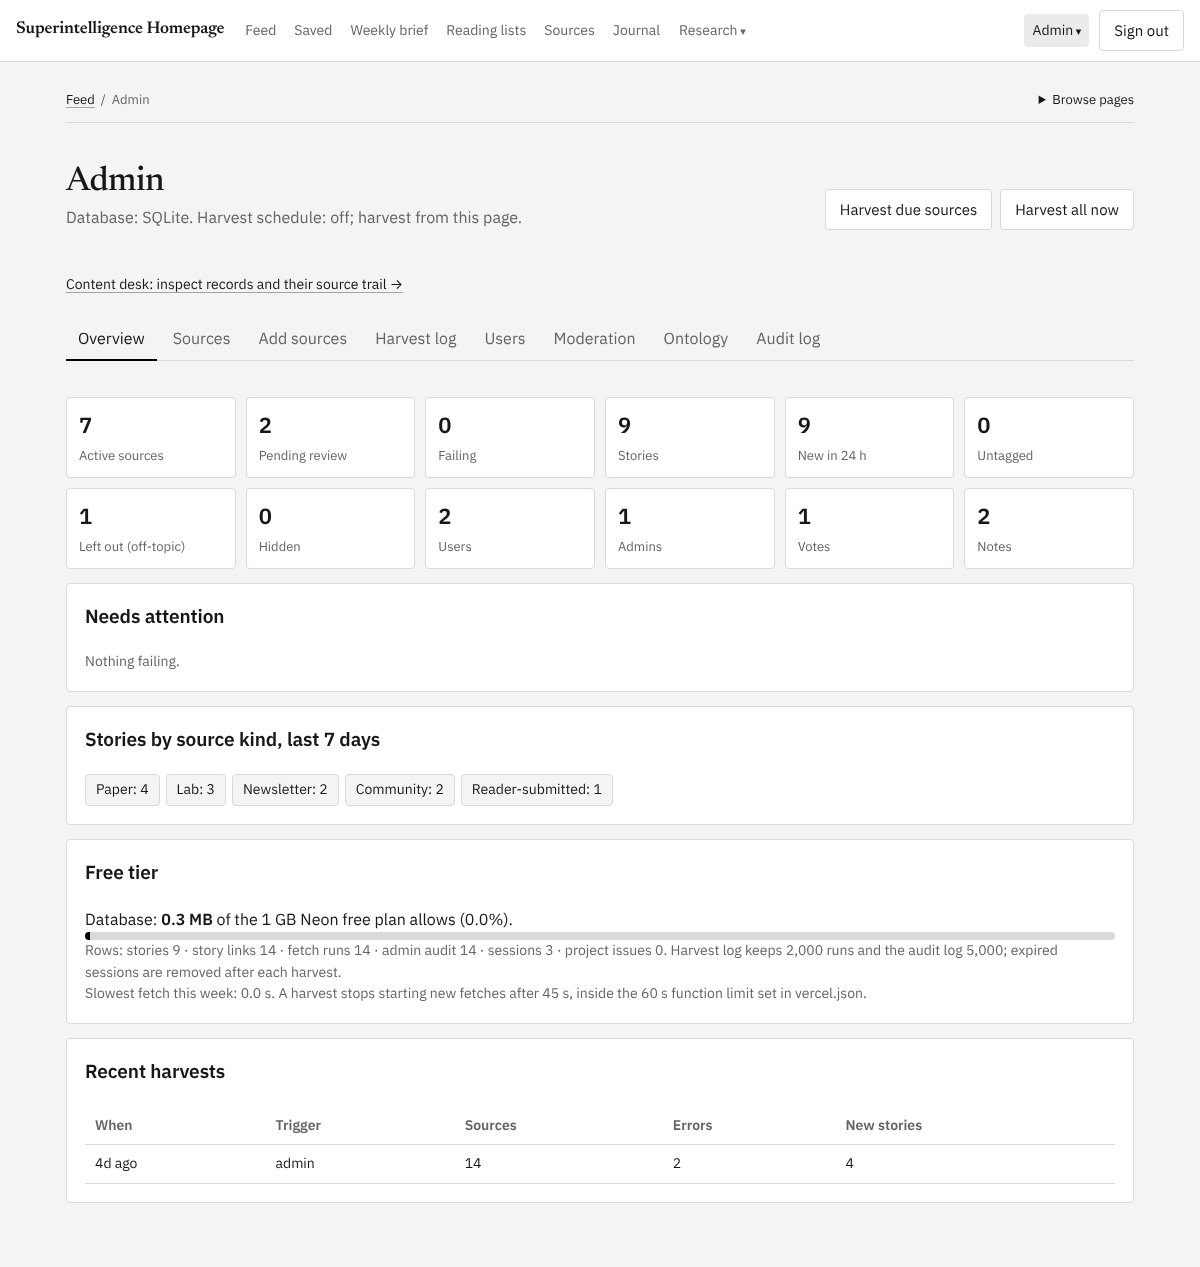
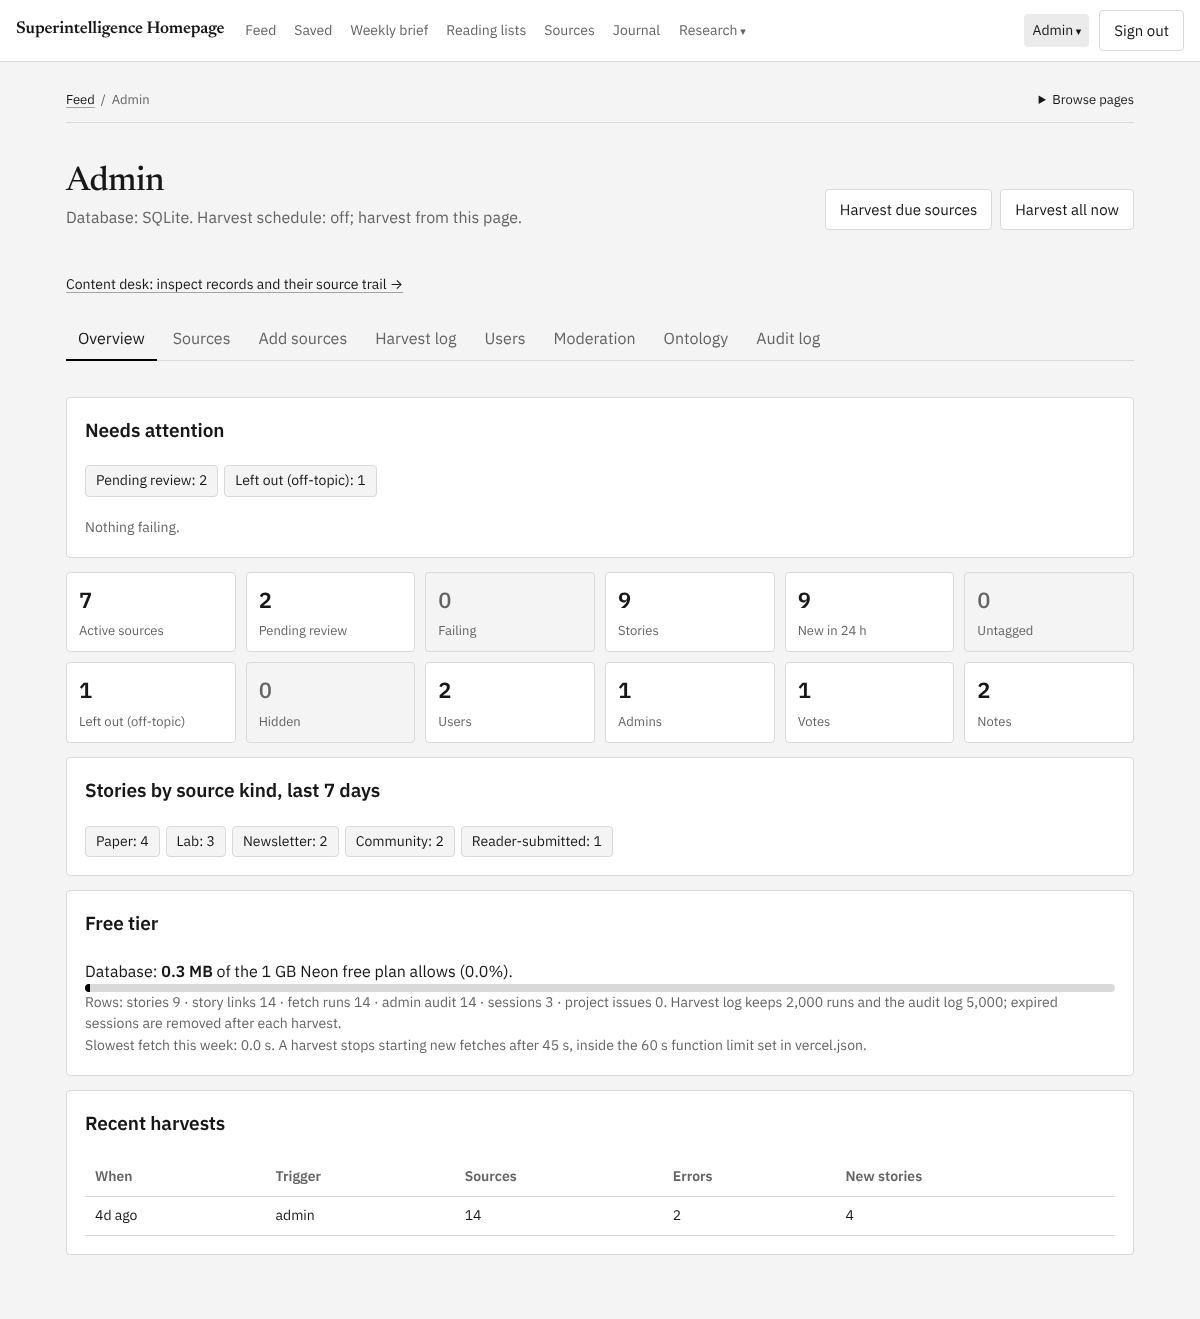
REQ-030: second UI pass from the captures: glossary, score badge, phone metrics, admin overview, Learn on phones
Glossary entries collapse (14,612px to 4,733px; deep links open their entry).
Score badge centred with a 44px hit zone on phones. Metric-only grids stay
two-up on phones. Admin leads with Needs attention and recedes zero counters.
Learn shows the concept list first on phones and folds the map (19 small
targets to 7, axe nested-interactive gone). e2e 339, navigation 15, CMS 32,
glossary 30, preflight: all pass.

diff --git a/modules/learn/pages/glossary.html b/modules/learn/pages/glossary.html
@@ -6,8 +6,8 @@
 <section class="panel" id="functionExplorer"><h2>Try a function</h2><p class="small muted">A bounded numerical teaching example. This checks outputs for these inputs; it is not a formal proof or a measure of a model’s confidence.</p><form class="row" id="functionForm"><label>Function<select id="functionId"><option value="softmax">Softmax</option><option value="sigmoid">Sigmoid</option></select></label><label>Inputs<input id="functionInputs" value="1, 2, 3" aria-describedby="functionLimit"></label><button class="btn" type="submit">Calculate</button></form><p class="small muted" id="functionLimit">1–32 comma-separated finite numbers, each between −1000 and 1000.</p><div id="functionOutput" role="status"></div></section>
 </main><script src="/js/api.js"></script><script src="/js/term-model.js"></script><script>
 let entries=[];
-function draw(){const q=SITerms.searchKey($('#termQuery').value.trim()),kind=$('#termKind').value,shown=entries.filter(e=>(!kind||e.kind===kind)&&(!q||SITerms.searchKey([e.label,e.id,...e.aliases,e.plain].join(' ')).includes(q)));$('#termStatus').textContent=shown.length+' entries shown.';$('#termIndex').innerHTML=shown.map(e=>`<a href="#${e.id}">${esc(e.label)}</a>`).join('');const nav=window.SI_USER?.nav||[],has=path=>nav.some(n=>n.href===path);$('#termEntries').innerHTML=shown.map(e=>`<article class="panel term-entry" id="${e.id}" tabindex="-1"><h2>${esc(e.label)}</h2><p class="small muted">term:${e.id} · ${esc(e.kind)}</p><p>${esc(e.plain)}</p><p class="term-formula">${esc(e.formula)}</p>${e.notation?.length?`<p class="small">Notation pointers: ${e.notation.map(id=>`<a href="#${id}">${esc(entries.find(x=>x.id===id).label)}</a>`).join(' · ')}</p>`:''}<h3>Properties and assumptions</h3><ul>${e.properties.map(p=>`<li>${esc(p)}</li>`).join('')}</ul><p class="small muted">${esc(e.caveat)}</p><div class="trace-links">${e.related.map(id=>{const related=entries.find(x=>x.id===id);return `<a href="#${id}">${esc(related.label)}</a>`;}).join('')}${has('/m/learn')?`<a href="/m/learn#/c/${e.concept}">Related concept</a>`:''}${has('/m/knowledge')?`<a href="/m/knowledge?qid=${encodeURIComponent('term:'+e.id)}">Graph mentions</a>`:''}${e.function_id?`<a href="#functionExplorer" data-function="${e.function_id}">Try ${esc(e.label)}</a>`:''}<a href="#${e.id}" aria-label="Permanent pointer to ${esc(e.label)}">Link to this entry</a></div><h3>Sources</h3><ul>${e.sources.map(s=>`<li><a href="${esc(s.url)}" target="_blank" rel="noopener noreferrer">${esc(s.title)}</a></li>`).join('')}</ul></article>`).join('')||'<p>No entry matches. Try a different name or symbol.</p>';}
-function point(){let id;try{id=decodeURIComponent(location.hash.slice(1));}catch{$('#termStatus').textContent='This glossary pointer is malformed.';return;}if(!id||id==='functionExplorer')return;const entry=entries.find(e=>e.id===id);if(!entry){$('#termStatus').textContent='This glossary pointer is not recognized. All entries are available below.';return;}if(!document.getElementById(id)){$('#termQuery').value='';$('#termKind').value='';draw();}setPageContext(entry.label);document.getElementById(id)?.scrollIntoView({block:'start'});document.getElementById(id)?.focus({preventScroll:true});}
+function draw(){const q=SITerms.searchKey($('#termQuery').value.trim()),kind=$('#termKind').value,shown=entries.filter(e=>(!kind||e.kind===kind)&&(!q||SITerms.searchKey([e.label,e.id,...e.aliases,e.plain].join(' ')).includes(q)));$('#termStatus').textContent=shown.length+' entries shown.';$('#termIndex').innerHTML=shown.map(e=>`<a href="#${e.id}">${esc(e.label)}</a>`).join('');const nav=window.SI_USER?.nav||[],has=path=>nav.some(n=>n.href===path);const target=(()=>{try{return decodeURIComponent(location.hash.slice(1));}catch{return '';}})(),few=shown.length<=3;$('#termEntries').innerHTML=shown.map(e=>`<details class="panel term-entry" id="${e.id}" tabindex="-1"${few||e.id===target?' open':''}><summary><h2>${esc(e.label)}</h2><span class="small muted term-kind">${esc(e.kind)}</span><p>${esc(e.plain)}</p></summary><p class="term-formula">${esc(e.formula)}</p>${e.notation?.length?`<p class="small">Notation pointers: ${e.notation.map(id=>`<a href="#${id}">${esc(entries.find(x=>x.id===id).label)}</a>`).join(' · ')}</p>`:''}<h3>Properties and assumptions</h3><ul>${e.properties.map(p=>`<li>${esc(p)}</li>`).join('')}</ul><p class="small muted">${esc(e.caveat)}</p><div class="trace-links">${e.related.map(id=>{const related=entries.find(x=>x.id===id);return `<a href="#${id}">${esc(related.label)}</a>`;}).join('')}${has('/m/learn')?`<a href="/m/learn#/c/${e.concept}">Related concept</a>`:''}${has('/m/knowledge')?`<a href="/m/knowledge?qid=${encodeURIComponent('term:'+e.id)}">Graph mentions</a>`:''}${e.function_id?`<a href="#functionExplorer" data-function="${e.function_id}">Try ${esc(e.label)}</a>`:''}<a href="#${e.id}" aria-label="Permanent pointer to ${esc(e.label)}">Link to this entry</a></div><h3>Sources</h3><ul>${e.sources.map(s=>`<li><a href="${esc(s.url)}" target="_blank" rel="noopener noreferrer">${esc(s.title)}</a></li>`).join('')}</ul></details>`).join('')||'<p>No entry matches. Try a different name or symbol.</p>';}
+function point(){let id;try{id=decodeURIComponent(location.hash.slice(1));}catch{$('#termStatus').textContent='This glossary pointer is malformed.';return;}if(!id||id==='functionExplorer')return;const entry=entries.find(e=>e.id===id);if(!entry){$('#termStatus').textContent='This glossary pointer is not recognized. All entries are available below.';return;}if(!document.getElementById(id)){$('#termQuery').value='';$('#termKind').value='';draw();}setPageContext(entry.label);const el=document.getElementById(id);if(el&&el.tagName==='DETAILS')el.open=true;el?.scrollIntoView({block:'start'});document.getElementById(id)?.focus({preventScroll:true});}
 $('#termFilters').onsubmit=e=>{e.preventDefault();draw();};$('#termQuery').oninput=draw;$('#termKind').onchange=draw;$('#clearTerms').onclick=()=>{$('#termQuery').value='';$('#termKind').value='';draw();};document.addEventListener('click',e=>{const a=e.target.closest('[data-function]');if(a)$('#functionId').value=a.dataset.function;const pointer=e.target.closest('a[href^="#"]');if(pointer&&pointer.getAttribute('href')===location.hash){e.preventDefault();point();}});window.addEventListener('hashchange',point);
 $('#functionForm').onsubmit=e=>{e.preventDefault();try{const raw=$('#functionInputs').value.split(',');if(raw.some(x=>!x.trim()))throw new Error('Separate numbers with commas; empty values are not numbers.');const output=SITerms.calculate($('#functionId').value,raw.map(Number)),sum=output.reduce((a,b)=>a+b,0);$('#functionOutput').className='';$('#functionOutput').textContent=`Output: ${output.map(v=>Number(v.toPrecision(8))).join(', ')}. ${$('#functionId').value==='softmax'?'Sum: '+sum.toPrecision(8)+'. ':''}All outputs finite and within [0, 1]: ${output.every(v=>Number.isFinite(v)&&v>=0&&v<=1)}.`;}catch(err){showErr($('#functionOutput'),err);}};
 api('/api/me',{allow401:true}).then(async({user})=>{topbar(user);const data=await api('/api/learn/glossary');entries=data.entries;draw();point();}).catch(e=>showErr($('#termStatus'),e));

diff --git a/public/css/app.css b/public/css/app.css
@@ -103,7 +103,10 @@ input:focus-visible, select:focus-visible, textarea:focus-visible, .btn:focus-vi
 .gap-sm { gap: 8px; } .gap-md { gap: 14px; } .gap-lg { gap: 22px; }
 .jr-grid { display: grid; grid-template-columns: repeat(var(--cols), minmax(0, 1fr)); gap: 12px; }
 @media (max-width: 700px) { .jr-grid { grid-template-columns: 1fr 1fr; } }
-@media (max-width: 420px) { .jr-grid { grid-template-columns: 1fr; } }
+@media (max-width: 420px) { .jr-grid { grid-template-columns: 1fr; }
+  /* A grid of nothing but metrics stays two-up on a phone: four stacked full-width counters pushed the content below the fold. */
+  .jr-grid:not(:has(> :not(.jr-metric))) { grid-template-columns: 1fr 1fr; gap: 8px; }
+  .jr-grid:not(:has(> :not(.jr-metric))) .jr-metric { padding: 10px 12px; } }
 .jr-card { background: var(--surface); border: 1px solid var(--line); border-radius: var(--radius); padding: 16px; display: grid; gap: 10px; min-width: 0; }
 .jr-card header { display: grid; gap: 2px; }
 .jr-card.tone-warn { border-color: var(--warn); } .jr-card.tone-good { border-color: var(--good); }
@@ -377,6 +380,9 @@ code, .mono, pre { font-family: var(--mono); }
 }
 @media (max-width: 900px) {
   .evidence-toggle, .filter-chip { min-height: 44px; } .story-heading { font-size: 20px; }
+  /* The score badge keeps a 44px touch area through an invisible hit zone, drawn at its natural size. */
+  .story .meta .sig.evidence-toggle { min-height: 24px; height: 24px; position: relative; }
+  .story .meta .sig.evidence-toggle::before { content: ""; position: absolute; inset: -10px -4px; }
   #feedView #guestNotice { font-size: 13px; } #feedView .feed-head p { display: none; }
 }
 
@@ -446,7 +452,16 @@ code, .mono, pre { font-family: var(--mono); }
 .term-pointer { text-decoration: underline dotted; text-underline-offset: 3px; }
 .term-pointer:focus-visible { outline: 2px solid var(--fg); outline-offset: 3px; }
 .term-index { display: flex; flex-wrap: wrap; gap: 10px 16px; }
-.term-entry { margin-top: 18px; scroll-margin-top: 100px; overflow-wrap: anywhere; }
+@media (max-width: 640px) { .term-index { gap: 4px 14px; } .term-index a { display: inline-flex; align-items: center; min-height: 36px; } }
+.term-entry { margin-top: 10px; scroll-margin-top: 100px; overflow-wrap: anywhere; }
+.term-entry > summary { cursor: pointer; list-style: none; display: grid; grid-template-columns: auto 1fr; column-gap: 12px; align-items: baseline; }
+.term-entry > summary::-webkit-details-marker { display: none; }
+.term-entry > summary::after { content: "+"; grid-column: 2; grid-row: 1; justify-self: end; color: var(--muted); font-size: 1.25rem; line-height: 1; }
+.term-entry[open] > summary::after { content: "−"; }
+.term-entry > summary h2 { margin: 0; font-size: 1.15rem; }
+.term-entry > summary .term-kind { grid-column: 1 / -1; }
+.term-entry > summary p { grid-column: 1 / -1; margin: 6px 0 0; }
+.term-entry[open] > summary { margin-bottom: 12px; }
 .term-formula { font-family: var(--mono); white-space: pre-wrap; border-left: 2px solid var(--line); padding-left: 12px; }
 #functionOutput { overflow-wrap: anywhere; margin-top: 12px; }
 .term-entry:focus { outline: 2px solid var(--fg); outline-offset: 2px; }
@@ -457,8 +472,19 @@ code, .mono, pre { font-family: var(--mono); }
 @media (max-width: 900px) { .topbar .nav > .navmenu { display: none; } }
 
 /* Story cards: the score says what it is out of, and the two actions share one height and centre line. */
-.sig { display: inline-flex; align-items: baseline; justify-content: center; } .sig::after { content: "/100"; font-weight: 500; margin-left: 1px; font-size: 10px; }
+.sig { display: inline-flex; align-items: center; justify-content: center; line-height: 1; } .sig::after { content: "/100"; font-weight: 500; margin-left: 1px; font-size: 10px; }
+.story .meta { align-items: center; }
 .acts { align-items: center; } .acts a { display: inline-flex; align-items: center; min-height: 36px; }
 @media (max-width: 900px) { .acts a { min-height: 44px; } }
 /* The Research menu sits mid-bar: drop it under its own button, not against the right edge like Admin. */
 .topbar .nav-research > div { right: auto; }
+
+/* Learn: concept map folds on phones, and the concept list comes first there. */
+.mapfold > summary { display: none; }
+@media (max-width: 640px) {
+  .mapfold > summary { display: flex; align-items: center; min-height: 44px; cursor: pointer; font-weight: 600; }
+  #view:has(> .conceptlist) { display: flex; flex-direction: column; } #view > .conceptlist { order: -1; }
+  .conceptlist thead { display: none; } .conceptlist table, .conceptlist tbody, .conceptlist tr, .conceptlist td { display: block; width: auto; }
+  .conceptlist tr { padding: 10px 0; border-bottom: 1px solid var(--line); } .conceptlist td { border: 0; padding: 2px 0; }
+  .conceptlist td:first-child a { display: inline-flex; align-items: center; min-height: 32px; font-weight: 600; }
+}

diff --git a/modules/admin/pages/admin.html b/modules/admin/pages/admin.html
@@ -5,6 +5,8 @@
   .kpis { display: grid; grid-template-columns: repeat(auto-fill, minmax(150px, 1fr)); gap: 10px; }
   .kpi { border: 1px solid var(--line); border-radius: var(--radius); padding: 10px 12px; background: var(--surface); }
   .kpi b { display: block; font-size: 22px; } .kpi span { font-size: 13px; color: var(--muted); }
+  .kpi.zero { background: transparent; } .kpi.zero b { color: var(--muted); font-weight: 500; }
+  #attention .chips { margin-bottom: 8px; }
   .tabs { flex-wrap: wrap; margin-bottom: 14px; }
   .tabpanel { display: grid; gap: 14px; }
   td .btn { padding: 3px 8px; font-size: 13px; }
@@ -37,8 +39,8 @@
   </div>
 
   <section class="tabpanel" data-panel="overview">
+    <div class="panel"><h2>Needs attention</h2><div id="attention"></div><div id="failing"></div></div>
     <div class="kpis" id="kpis"></div>
-    <div class="panel"><h2>Needs attention</h2><div id="failing"></div></div>
     <div class="panel"><h2>Stories by source kind, last 7 days</h2><div id="kinds"></div></div>
     <div class="panel"><h2>Free tier</h2><div id="freeTier"></div></div>
     <div class="panel"><h2>Recent harvests</h2><div class="tablewrap"><table><thead><tr><th>When</th><th>Trigger</th><th>Sources</th><th>Errors</th><th>New stories</th></tr></thead><tbody id="lastRuns"></tbody></table></div></div>
@@ -146,7 +148,11 @@ $$("#tabs button").forEach((b) => (b.onclick = () => show(b.dataset.tab)));
 async function loadOverview() {
   const d = await api("/api/admin/overview"), c = d.counts;
   const k = [["Active sources", d.sources.active || 0], ["Pending review", d.sources.pending || 0], ["Failing", d.failing.length], ["Stories", c.stories], ["New in 24 h", c.storiesToday], ["Untagged", c.untagged], ["Left out (off-topic)", c.offTopic], ["Hidden", c.hidden], ["Users", c.users], ["Admins", c.admins], ["Votes", c.votes], ["Notes", c.notes]];
-  $("#kpis").innerHTML = k.map(([t, v]) => `<div class="kpi"><b>${v}</b><span>${t}</span></div>`).join("");
+  // Counters that mean work to do lead the page (only when non-zero); the rest are reference numbers, zeros receded.
+  const todo = [["Pending review", d.sources.pending || 0, "sources"], ["Untagged", c.untagged, "moderation"], ["Hidden", c.hidden, "moderation"], ["Left out (off-topic)", c.offTopic, "moderation"]].filter(([, v]) => v > 0);
+  $("#attention").innerHTML = todo.length ? `<div class="chips">${todo.map(([t, v, tab]) => `<button type="button" class="chip" data-goto="${tab}">${esc(t)}: ${v}</button>`).join("")}</div>` : "";
+  $("#attention").querySelectorAll("[data-goto]").forEach((b) => (b.onclick = () => document.querySelector(`[data-tab="${b.dataset.goto}"]`)?.click()));
+  $("#kpis").innerHTML = k.map(([t, v]) => `<div class="kpi${v ? "" : " zero"}"><b>${v}</b><span>${t}</span></div>`).join("");
   $("#sub").textContent = `Database: ${d.engine === "pg" ? "Postgres" : "SQLite"}. Harvest schedule: ${d.schedule}${process_cron(d)}.${d.harvesting ? " A harvest is running now." : ""}`;
   $("#failing").innerHTML = d.failing.length ? `<ul>${d.failing.map((s) => `<li><b>${esc(s.name)}</b>: ${esc(s.last_error || "")} <span class="small muted">(${s.failures} failures, last ${ago(s.last_fetched)})</span></li>`).join("")}</ul>` : `<p class="small muted">Nothing failing.</p>`;
   $("#kinds").innerHTML = d.kindsThisWeek.length ? `<div class="chips">${d.kindsThisWeek.map((r) => `<span class="chip">${esc(KIND[r.kind] || r.kind)}: ${r.n}</span>`).join("")}</div>` : `<p class="small muted">No stories this week yet.</p>`;

diff --git a/modules/learn/pages/learn.html b/modules/learn/pages/learn.html
@@ -79,14 +79,16 @@ async function showMap(focus,request=++learnRequest) {
   const curve = (a, b) => { const ax = a.x + a.w / 2, ay = a.y + a.h / 2, bx = b.x + b.w / 2, by = b.y + b.h / 2, mx = (ax + bx) / 2, my = (ay + by) / 2 - Math.min(60, Math.abs(ax - bx) * 0.18 + 14); return `M${ax},${ay} Q${mx},${my} ${bx},${by}`; };
   $("#view").innerHTML = `<section class="panel enter"><div class="row" style="align-items:center"><p class="small muted" style="flex:1 1 300px">${g.concepts.length} concepts and ${g.edges.length} links. Click a concept to read it; its links light up. Dashed lines join ideas that are opposite worries.</p>
     <input type="search" id="find" placeholder="Find a concept" aria-label="Find a concept" style="flex:0 1 240px"></div>
-    <div class="graphwrap"><svg id="g" viewBox="0 0 ${L.width} ${L.height}" role="img" aria-label="Concept map">
+    <details class="mapfold" open><summary>Show the concept map</summary><div class="graphwrap"><svg id="g" viewBox="0 0 ${L.width} ${L.height}" role="img" aria-label="Concept map">
       ${L.cols.map((t, i) => `<text class="gcol" x="${12 + i * (L.W + 18)}" y="20">${esc(TOPIC_LABEL[t] || t)}</text>`).join("")}
       ${g.edges.map((e) => `<path class="gedge ${e.kind}" data-a="${e.from}" data-b="${e.to}" d="${curve(L.pos[e.from], L.pos[e.to])}"><title>${esc(e.from)} ${esc(e.label)} ${esc(e.to)}</title></path>`).join("")}
       ${g.concepts.map((c) => { const p = L.pos[c.id], lines = wrapText(c.name); return `<g class="gnode" data-id="${c.id}" tabindex="0" role="link" aria-label="${esc(c.name)}"><rect x="${p.x}" y="${p.y}" width="${p.w}" height="${p.h}" rx="8"/>${lines.map((ln, i) => `<text x="${p.x + 10}" y="${p.y + (lines.length === 1 ? 27 : 19 + i * 16)}">${esc(ln)}</text>`).join("")}</g>`; }).join("")}
-    </svg></div></section>
-    <section class="panel"><h2>All concepts</h2><div class="tablewrap"><table><thead><tr><th>Concept</th><th>In plain words</th><th>Level</th></tr></thead><tbody id="clist">
+    </svg></div></details></section>
+    <section class="panel conceptlist"><h2>All concepts</h2><div class="tablewrap"><table><thead><tr><th>Concept</th><th>In plain words</th><th>Level</th></tr></thead><tbody id="clist">
       ${g.concepts.slice().sort((a, b) => a.level - b.level || a.name.localeCompare(b.name)).map((c) => `<tr data-row="${c.id}"><td><a href="#/c/${c.id}">${esc(c.name)}</a></td><td class="small">${esc(c.plain)}</td><td class="lvl">${LEVEL[c.level]}</td></tr>`).join("")}
     </tbody></table></div></section>`;
+  // On a phone the map's nodes are too small to tap: the list comes first and the map folds away (still one tap off).
+  if (matchMedia("(max-width: 640px)").matches) $("#view .mapfold").open = false;
   const svg = $("#g");
   const light = (id) => { svg.querySelectorAll(".gnode").forEach((n) => { const linked = !id || n.dataset.id === id || g.edges.some((e) => (e.from === id && e.to === n.dataset.id) || (e.to === id && e.from === n.dataset.id)); n.classList.toggle("dim", !linked); n.classList.toggle("on", n.dataset.id === id); }); svg.querySelectorAll(".gedge").forEach((p) => p.classList.toggle("hot", !!id && (p.dataset.a === id || p.dataset.b === id))); };
   svg.querySelectorAll(".gnode").forEach((n) => { n.onmouseenter = () => light(n.dataset.id); n.onmouseleave = () => light(focus || null); n.onclick = () => (location.hash = `#/c/${n.dataset.id}`); n.onkeydown = (e) => { if (e.key === "Enter") location.hash = `#/c/${n.dataset.id}`; }; });

diff --git a/docs/UI_REVIEW_2026-11-09.md b/docs/UI_REVIEW_2026-11-09.md
@@ -24,6 +24,21 @@ scroll on phones, one h1 per page, and the accessibility scan is mostly clean.
 Checks after the changes: preflight passed; the accessibility scan has no new findings (a contrast failure introduced
 mid-change by a faded "/100" was caught by the scan and fixed); browser tests below.
 
+## Second pass (same day, from the post-fix captures)
+
+| # | Finding (evidence) | Fix |
+| --- | --- | --- |
+| 8 | **Glossary was 14,612px tall**: all 26 entries rendered in full under an index that already linked to them; each showed an internal id (`term:softmax`). | Entries are collapsible: name, kind and one-line definition always visible, the rest one tap away. The entry in the address opens and scrolls into view (permanent links still work), and so does any search that leaves three or fewer. 4,733px. Internal id removed. |
+| 9 | **Score badge was a hollow box**: text pinned to the top of a 32 to 44px button; on phones a 44×44 square. Meta items on different centre lines. | Badge centred and drawn at its natural height; on phones an invisible hit zone keeps the 44px touch area. Meta row centred. |
+| 10 | **Weekly brief on a phone**: four counters stacked full width pushed the top stories below the fold. | Any json-render grid made only of metrics stays two-up on phones (helps every page using them). The first top story is now on the first screen. |
+| 11 | **Admin overview**: 12 equal counters, 8 of them zero, above "Needs attention". | "Needs attention" leads, with a button per non-zero to-do counter (pending review, untagged, hidden, left out) that opens its tab; zero counters recede. |
+| 12 | **Learn on a phone**: the concept map's nodes were the default (19 targets under 24px, one axe `nested-interactive`). | On phones the concept list comes first, as stacked rows, and the map folds into "Show the concept map". Learn: 19 small targets to 7, the axe finding gone. Desktop unchanged. |
+
+Audit note: the capture script counts links inside closed `<details>` as small targets, because current Chrome lays out hidden
+details content. They can't be tapped. Glossary's remaining count is mostly those.
+
+Checks: preflight; browser suites e2e 339, navigation 15, CMS 32, glossary 30, all passing; axe found nothing new.
+
 ## Still open, ranked
 
 1. **Three navigation systems on most pages:** the bar, breadcrumbs and the "Browse pages" directory (the Project
@@ -32,16 +47,19 @@ mid-change by a faded "/100" was caught by the scan and fixed); browser tests be
 2. **Research has no landing page.** A short hub (what each tool is for, in reading order: Learn, Glossary,
    Knowledge map, Capabilities, Lab, Arena, Review desk, Topic dossiers) would give the section a front door and the
    breadcrumb a target.
-3. **Concept map is unusable on a phone** (Learn): tiny nodes, crossing lines, 19 tap targets under 24px. Offer a
-   list view by default under 640px.
+3. ~~Concept map unusable on a phone~~ (fixed, #12).
 4. **Small tap targets:** Knowledge map 49, Glossary 36, Learn 19, Weekly brief 14 under 24px.
 5. **Arena's main control is raw JSON.** Generate form fields from each runner's params (they already have min, max,
    step and descriptions), keep JSON as an advanced tab.
-6. **Admin overview:** 12 equal-weight counters, most zero. Lead with "Needs attention" and the two or three numbers
-   that change decisions; collapse the rest.
+6. ~~Admin overview~~ (fixed, #11).
 7. **Inconsistent page widths:** most pages use the centred column; Project and Arena go full-bleed.
 8. **Learn's breadcrumb shows the active tab** ("Concept map") while the heading and nav say "Learn".
-9. **Story meta on phones wraps badly** (the source kind orphaned on its own line).
+9. **Story meta on phones** still wraps the source kind and time onto a second line (now aligned, #9). Folding the
+   kind into the source name ("Sample lab blog · Lab") would keep it on one line.
+12. **Feed, above the fold on phones:** the first story starts about 490px down (filters, then a row with the story
+    count, "Explain sort" and "Browse pages"). Fold the count and "Explain sort" into the filters summary.
+13. **Story page:** "Back to results" sits right under the breadcrumb, the score appears twice, and the admin-only
+    "Manage this record" is mixed into the reader's evidence links.
 10. Remaining axe items: heading-order on Weekly brief, Arena, Control room and Code map; empty table headers on
     Decide; Project's main landmark and region structure; nested interactive controls on Learn.
 11. **Type scale:** up to 11 distinct font sizes on a page (Capabilities). A fixed scale of five or six would steady it.
